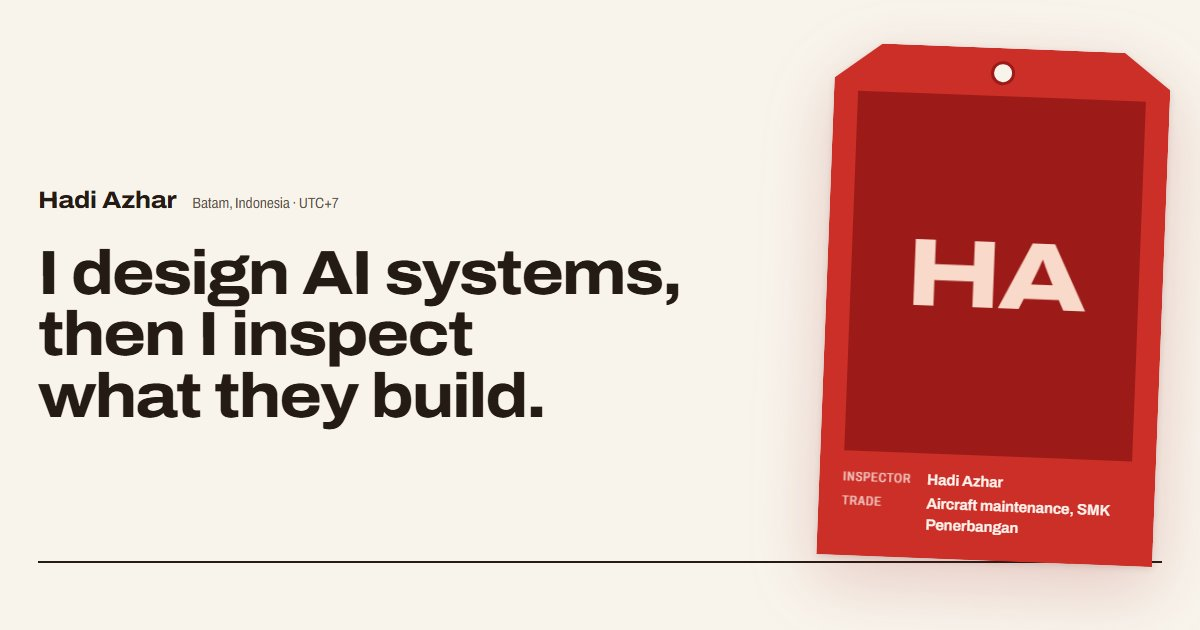
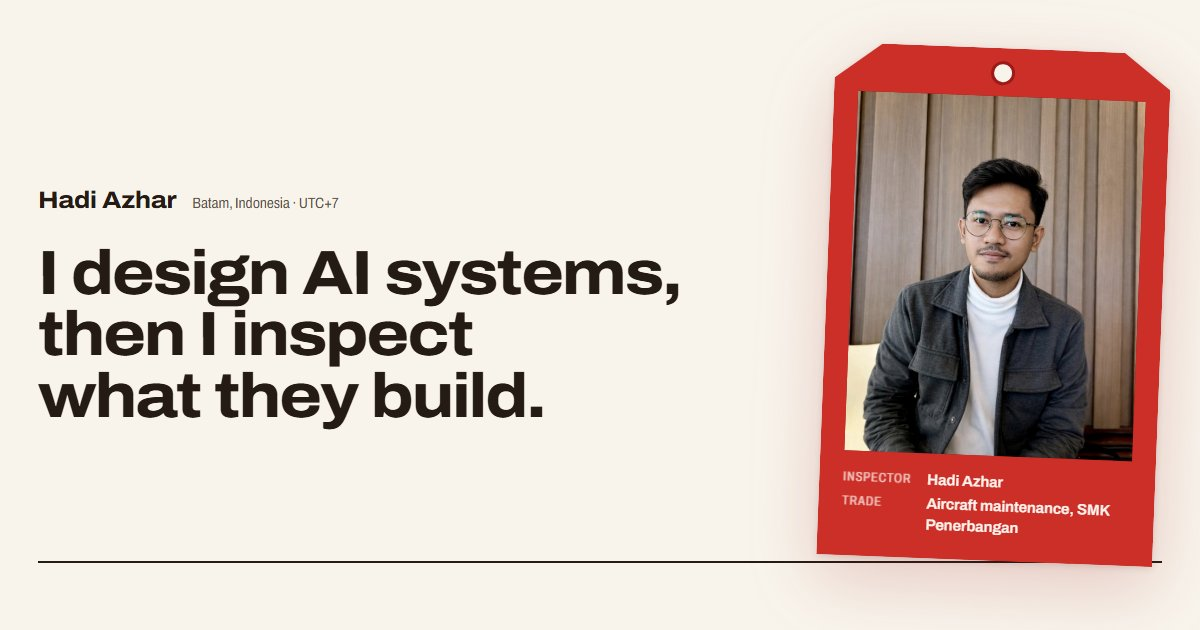
Add photo to the hero tag and link preview
Cropped 4:5, 800x1000, metadata stripped.

Changed region(s): [[0.6783, 0.1206, 0.9558, 0.754]]

diff --git a/index.html b/index.html
@@ -19,7 +19,7 @@
 <link rel="preconnect" href="https://fonts.googleapis.com">
 <link rel="preconnect" href="https://fonts.gstatic.com" crossorigin>
 <link href="https://fonts.googleapis.com/css2?family=Archivo:wdth,wght@62..125,300..800&display=swap" rel="stylesheet">
-<link rel="stylesheet" href="style.css?v=5">
+<link rel="stylesheet" href="style.css?v=6">
 <script>
   // Pick language before first paint so nothing flickers.
   (function () {
@@ -75,10 +75,8 @@
   <div class="tag-wrap">
   <figure class="tag">
     <span class="tag-hole" aria-hidden="true"></span>
-    <!-- Photo: drop img/hadi.jpg in, add <img src="img/hadi.jpg" alt="Hadi Azhar" width="480" height="600">
-         inside .tag-photo and remove the no-photo class. -->
-    <div class="tag-photo no-photo">
-      <span class="initials" aria-hidden="true">HA</span>
+    <div class="tag-photo">
+      <img src="img/hadi.jpg" alt="Hadi Azhar, smiling, in glasses and a grey jacket" width="800" height="1000" fetchpriority="high">
     </div>
     <figcaption>
       <span class="tag-k"><span data-l="en">Inspector</span><span data-l="id">Pemeriksa</span></span>
@@ -336,6 +334,6 @@
   <p>© 2026 Hadi Azhar</p>
 </footer>
 
-<script src="main.js?v=5" defer></script>
+<script src="main.js?v=6" defer></script>
 </body>
 </html>
